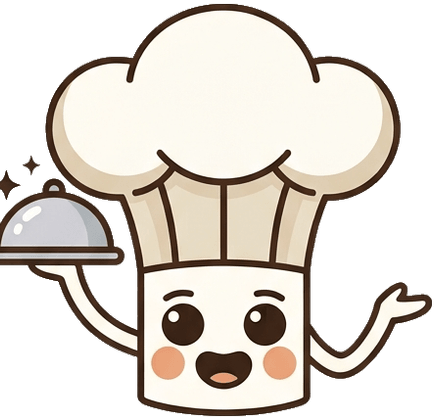
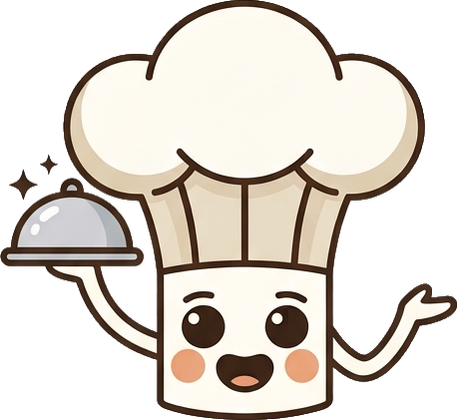
fix: a "serve" le faltaba medio cloche y "thinking" llevaba el trozo que faltaba
Lo olió el usuario y era exactamente eso. Los dibujos de las hojas NO están
centrados en su cuadrante: en la hoja 2 el cloche de "serve" se mete bien
pasada la mitad, hasta x=446, y el corte se hacía en x=464. Resultado: media
bandeja perdida en "serve" y esa misma media pegada al borde de "thinking".

Auditados los doce sprites buscando manchas sueltas y contenido tocando el
borde. Solo esos dos estaban mal:

- serve    436x420 → 457x420 (cloche entero, con su chispita)
- thinking 361x420 → 323x420 (sin el trozo del vecino)

Las manchas sueltas que quedan son legítimas y se comprobaron una a una: el
vapor y las chispitas de "cooking" y la chispita de "serve".

El cortador ya no asume el 50%: busca la banda de columnas vacías entre los dos
dibujos y corta por su centro. En la hoja 2 eso da x=432 en vez de 464. Queda
en .claude/chefie-originales/ junto al script de auditoría, para las próximas.

Changed region(s): [[0.0, 0.0, 1.0, 1.0]]

diff --git a/.claude/chefie-originales/slice-chefie.js b/.claude/chefie-originales/slice-chefie.js
@@ -1,40 +1,33 @@
 /**
  * Recorta las hojas 2x2 de Chefie y les devuelve la transparencia.
  *
- * Dos problemas que resuelve:
+ * Uso:  node slice-chefie.js <hoja> <col> <fila> <nombre> <destino>
+ *
+ * Tres problemas que resuelve, los tres pillados en producción:
  *
  * 1. El damero de "fondo transparente" viene PINTADO como píxeles opacos. No
  *    vale con quitar los claros: el cuerpo de Chefie es crema, casi tan claro
  *    como el damero. Se rellena desde el BORDE hacia dentro y se para en el
  *    contorno oscuro, que es lo que encierra al personaje.
  *
- * 2. Los dibujos vecinos invaden la celda (el brazo con la tarta se mete en la
- *    de la sartén). Se etiquetan las manchas conexas y se tira lo que entra por
- *    un borde sin ser la figura principal. Las chispitas, que van sueltas pero
- *    dentro, sobreviven.
+ * 2. Los dibujos NO están centrados en su cuadrante. Cortar por la mitad partió
+ *    en dos el cloche de "serve", que se mete bien pasada la mitad: media
+ *    bandeja se perdió y la otra media se quedó pegada a "thinking". Por eso el
+ *    corte NO se hace al 50%, sino en el hueco vacío que se busca aquí.
+ *
+ * 3. Aun con el corte bien puesto, un vecino puede invadir la celda. Se
+ *    etiquetan las manchas conexas y se descarta lo que entra por un borde sin
+ *    ser la figura principal. Las chispitas, sueltas pero interiores, se quedan.
  */
 const sharp = require('sharp');
 const path = require('path');
 
-const OUT_H = 420; // misma altura que los sprites que ya existen
+const OUT_H = 420; // misma altura para todos los sprites
 const DARK = 150; // luminancia por debajo de la cual es contorno (barrera)
 
-async function cell(file, col, row, name, outDir) {
-  const { width, height } = await sharp(file).metadata();
-  const cw = Math.floor(width / 2);
-  const ch = Math.floor(height / 2);
-
-  const { data, info } = await sharp(file)
-    .extract({ left: col * cw, top: row * ch, width: cw, height: ch })
-    .ensureAlpha()
-    .raw()
-    .toBuffer({ resolveWithObject: true });
-
-  const w = info.width;
-  const h = info.height;
+/** Marca lo alcanzable desde el borde sin cruzar contorno oscuro = el fondo. */
+function floodOutside(data, w, h) {
   const lum = (i) => 0.299 * data[i] + 0.587 * data[i + 1] + 0.114 * data[i + 2];
-
-  // ── 1. Fuera = lo alcanzable desde el borde sin cruzar contorno ──────────
   const outside = new Uint8Array(w * h);
   const stack = [];
   const push = (x, y) => {
@@ -61,8 +54,73 @@ async function cell(file, col, row, name, outDir) {
     push(x, y + 1);
     push(x, y - 1);
   }
+  return outside;
+}
 
-  // ── 2. Manchas conexas de lo que queda ──────────────────────────────────
+/**
+ * Centro del hueco vertical entre los dos dibujos de una fila. Buscar la banda
+ * de columnas sin dibujo es más fiable que fiarse del 50%: en la hoja 2 el
+ * hueco de abajo está en 418..446 y la mitad cae en 464, dentro del cloche.
+ */
+async function gutterX(file, row) {
+  const { width, height } = await sharp(file).metadata();
+  const ch = Math.floor(height / 2);
+  const { data, info } = await sharp(file)
+    .extract({ left: 0, top: row * ch, width, height: ch })
+    .ensureAlpha()
+    .raw()
+    .toBuffer({ resolveWithObject: true });
+
+  const w = info.width;
+  const h = info.height;
+  const outside = floodOutside(data, w, h);
+
+  const mid = Math.floor(w / 2);
+  const search = Math.floor(w * 0.2); // se busca a ±20% de la mitad
+  let bestStart = -1;
+  let bestLen = 0;
+  let runStart = -1;
+  for (let x = mid - search; x <= mid + search; x++) {
+    let empty = true;
+    for (let y = 0; y < h; y++) {
+      if (!outside[y * w + x]) {
+        empty = false;
+        break;
+      }
+    }
+    if (empty) {
+      if (runStart < 0) runStart = x;
+      const len = x - runStart + 1;
+      if (len > bestLen) {
+        bestLen = len;
+        bestStart = runStart;
+      }
+    } else {
+      runStart = -1;
+    }
+  }
+  if (bestLen === 0) return { x: mid, found: false };
+  return { x: Math.floor(bestStart + bestLen / 2), found: true, band: [bestStart, bestStart + bestLen - 1] };
+}
+
+async function cell(file, col, row, name, outDir) {
+  const { width, height } = await sharp(file).metadata();
+  const ch = Math.floor(height / 2);
+  const g = await gutterX(file, row);
+  const left = col === 0 ? 0 : g.x;
+  const cw = col === 0 ? g.x : width - g.x;
+
+  const { data, info } = await sharp(file)
+    .extract({ left, top: row * ch, width: cw, height: ch })
+    .ensureAlpha()
+    .raw()
+    .toBuffer({ resolveWithObject: true });
+
+  const w = info.width;
+  const h = info.height;
+  const outside = floodOutside(data, w, h);
+
+  // Manchas conexas de lo que queda dentro.
   const label = new Int32Array(w * h).fill(-1);
   const blobs = [];
   for (let p0 = 0; p0 < w * h; p0++) {
@@ -94,8 +152,6 @@ async function cell(file, col, row, name, outDir) {
   let dropped = 0;
   for (let p = 0; p < w * h; p++) {
     const id = label[p];
-    // Transparente lo de fuera, y también las manchas que entran por un borde
-    // sin ser la figura: son el dibujo de la celda de al lado.
     if (outside[p] || (id !== main && blobs[id].touchesEdge)) {
       if (!outside[p]) dropped++;
       data[p * 4 + 3] = 0;
@@ -111,17 +167,13 @@ async function cell(file, col, row, name, outDir) {
 
   const m = await sharp(out).metadata();
   console.log(
-    `${name.padEnd(20)} ${m.width}x${m.height}  manchas:${blobs.length}  invasores borrados:${dropped}px`
+    `${name.padEnd(20)} ${m.width}x${m.height}  corte x=${g.x}${g.found ? ` (hueco ${g.band[0]}..${g.band[1]})` : ' SIN hueco → mitad'}  invasores:${dropped}px  ratio ${m.width}/420`
   );
 }
 
 (async () => {
-  const [sheet1, sheet2, outDir] = process.argv.slice(2);
-  // Solo las poses que aportan algo nuevo; el resto duplican las que ya hay.
-  await cell(sheet1, 0, 0, 'chefie-interview', outDir); // tablet "cuestionario nutricional"
-  await cell(sheet1, 1, 1, 'chefie-inventory', outDir); // tabla "inventario"
-  await cell(sheet2, 1, 0, 'chefie-rolling', outDir); // rodillo, cara de esfuerzo
-  await cell(sheet2, 1, 1, 'chefie-cooking', outDir); // sartén con huevo, contento
+  const [file, col, row, name, outDir] = process.argv.slice(2);
+  await cell(file, Number(col), Number(row), name, outDir);
 })().catch((e) => {
   console.error('FALLO:', e.message);
   process.exit(1);

diff --git a/.claude/chefie-originales/audit-sprites.js b/.claude/chefie-originales/audit-sprites.js
@@ -1,0 +1,74 @@
+/** Audita los sprites ya integrados: manchas sueltas y recortes. */
+const sharp = require('sharp');
+const fs = require('fs');
+const path = require('path');
+
+const ALPHA = 16; // por encima de esto se considera píxel del dibujo
+
+async function audit(file) {
+  const { data, info } = await sharp(file).ensureAlpha().raw().toBuffer({ resolveWithObject: true });
+  const w = info.width;
+  const h = info.height;
+  const on = (p) => data[p * 4 + 3] > ALPHA;
+
+  const label = new Int32Array(w * h).fill(-1);
+  const blobs = [];
+  for (let p0 = 0; p0 < w * h; p0++) {
+    if (!on(p0) || label[p0] !== -1) continue;
+    const id = blobs.length;
+    const b = { size: 0, x0: w, y0: h, x1: 0, y1: 0 };
+    label[p0] = id;
+    const q = [p0];
+    while (q.length) {
+      const p = q.pop();
+      b.size++;
+      const x = p % w;
+      const y = (p / w) | 0;
+      if (x < b.x0) b.x0 = x;
+      if (y < b.y0) b.y0 = y;
+      if (x > b.x1) b.x1 = x;
+      if (y > b.y1) b.y1 = y;
+      for (const [dx, dy] of [[1, 0], [-1, 0], [0, 1], [0, -1]]) {
+        const nx = x + dx;
+        const ny = y + dy;
+        if (nx < 0 || ny < 0 || nx >= w || ny >= h) continue;
+        const np = ny * w + nx;
+        if (!on(np) || label[np] !== -1) continue;
+        label[np] = id;
+        q.push(np);
+      }
+    }
+    blobs.push(b);
+  }
+
+  const main = blobs.reduce((best, b, i) => (b.size > blobs[best].size ? i : best), 0);
+  const m = blobs[main];
+
+  // ¿La figura principal llega al borde? Tras un trim eso es normal en el lado
+  // por donde se recortó; si toca DOS lados opuestos o toca por arriba, huele
+  // a que el recorte de la celda se comió una parte.
+  const touches = [];
+  if (m.x0 === 0) touches.push('izq');
+  if (m.y0 === 0) touches.push('arriba');
+  if (m.x1 === w - 1) touches.push('der');
+  if (m.y1 === h - 1) touches.push('abajo');
+
+  // Manchas sueltas: cualquier otra con tamaño apreciable.
+  const strays = blobs
+    .map((b, i) => ({ b, i }))
+    .filter(({ b, i }) => i !== main && b.size > 200)
+    .map(({ b }) => `${b.size}px en (${b.x0},${b.y0})-(${b.x1},${b.y1})`);
+
+  console.log(
+    `${path.basename(file).padEnd(24)} ${String(w).padStart(3)}x${h}  manchas:${String(blobs.length).padStart(2)}  ` +
+      `principal:${Math.round((m.size / (w * h)) * 100)}%  toca:[${touches.join(',') || '—'}]` +
+      (strays.length ? `  ⚠ SUELTAS: ${strays.join(' | ')}` : '')
+  );
+}
+
+(async () => {
+  const dir = process.argv[2];
+  for (const f of fs.readdirSync(dir).filter((f) => f.endsWith('.png')).sort()) {
+    await audit(path.join(dir, f));
+  }
+})();

diff --git a/native/src/components/chefie-mascot.tsx b/native/src/components/chefie-mascot.tsx
@@ -44,8 +44,10 @@ const SPRITES: Record<ChefiePose, { src: number; ratio: number }> = {
   celebrate: { src: require('../../assets/images/chefie/chefie-celebrate.png'), ratio: 380 / 420 },
   thumbsup: { src: require('../../assets/images/chefie/chefie-thumbsup.png'), ratio: 353 / 420 },
   whisk: { src: require('../../assets/images/chefie/chefie-whisk.png'), ratio: 332 / 420 },
-  thinking: { src: require('../../assets/images/chefie/chefie-thinking.png'), ratio: 361 / 420 },
-  serve: { src: require('../../assets/images/chefie/chefie-serve.png'), ratio: 436 / 420 },
+  // thinking y serve se recortaron de nuevo el 2026-08-04: el corte por la
+  // mitad partía el cloche de serve, que se mete en la celda de thinking.
+  thinking: { src: require('../../assets/images/chefie/chefie-thinking.png'), ratio: 323 / 420 },
+  serve: { src: require('../../assets/images/chefie/chefie-serve.png'), ratio: 457 / 420 },
   interview: { src: require('../../assets/images/chefie/chefie-interview.png'), ratio: 314 / 420 },
   inventory: { src: require('../../assets/images/chefie/chefie-inventory.png'), ratio: 322 / 420 },
   rolling: { src: require('../../assets/images/chefie/chefie-rolling.png'), ratio: 322 / 420 },

diff --git a/src/components/nutri-planner/chefie-mascot.tsx b/src/components/nutri-planner/chefie-mascot.tsx
@@ -50,8 +50,10 @@ const SPRITES: Record<ChefiePose, { file: string; ratio: number }> = {
   celebrate: { file: 'chefie-celebrate.png', ratio: 380 / 420 },
   thumbsup: { file: 'chefie-thumbsup.png', ratio: 353 / 420 },
   whisk: { file: 'chefie-whisk.png', ratio: 332 / 420 },
-  thinking: { file: 'chefie-thinking.png', ratio: 361 / 420 },
-  serve: { file: 'chefie-serve.png', ratio: 436 / 420 },
+  // thinking y serve se recortaron de nuevo el 2026-08-04: el corte por la
+  // mitad partía el cloche de serve, que se mete en la celda de thinking.
+  thinking: { file: 'chefie-thinking.png', ratio: 323 / 420 },
+  serve: { file: 'chefie-serve.png', ratio: 457 / 420 },
   interview: { file: 'chefie-interview.png', ratio: 314 / 420 },
   inventory: { file: 'chefie-inventory.png', ratio: 322 / 420 },
   rolling: { file: 'chefie-rolling.png', ratio: 322 / 420 },
